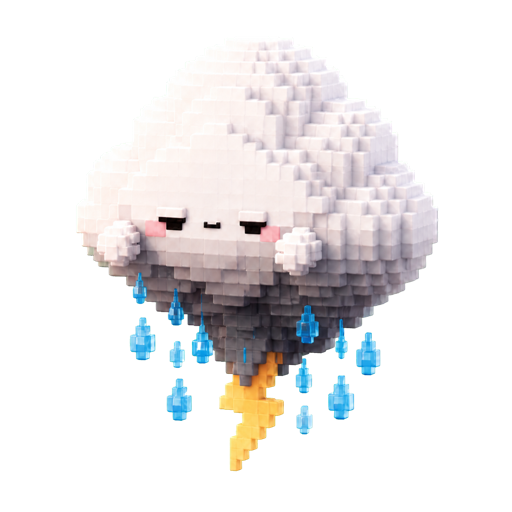
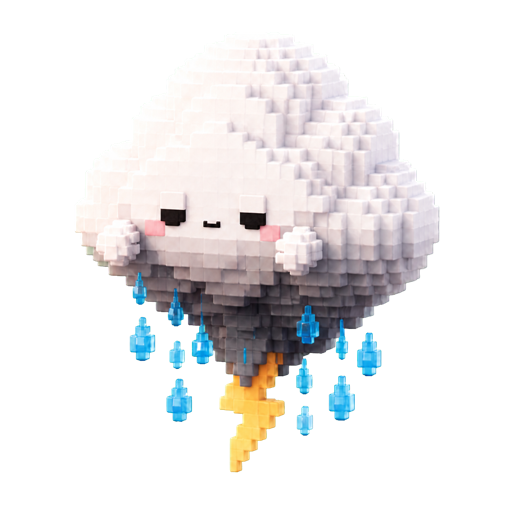
fix: reopen Nimbus idle blink

diff --git a/Tests/PetsCoreTests/Pets/PetArtResourceTests.swift b/Tests/PetsCoreTests/Pets/PetArtResourceTests.swift
@@ -100,7 +100,7 @@ struct PetArtResourceTests {
     private func assertCompleteIdleLoop(petID: PetID) throws {
         let definition = try #require(PetCatalog.definition(for: petID))
         guard case let .assetPack(pack) = definition.renderSource else {
-            Issue.record("Cumulus must use an asset pack")
+            Issue.record("\(definition.displayName) must use an asset pack")
             return
         }
 